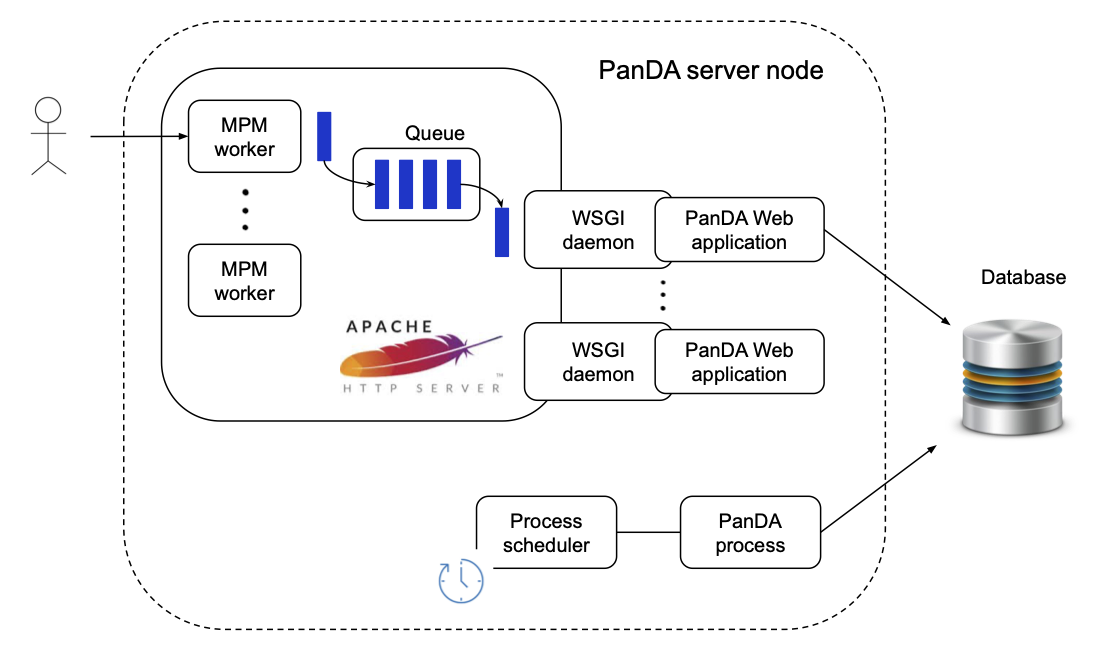
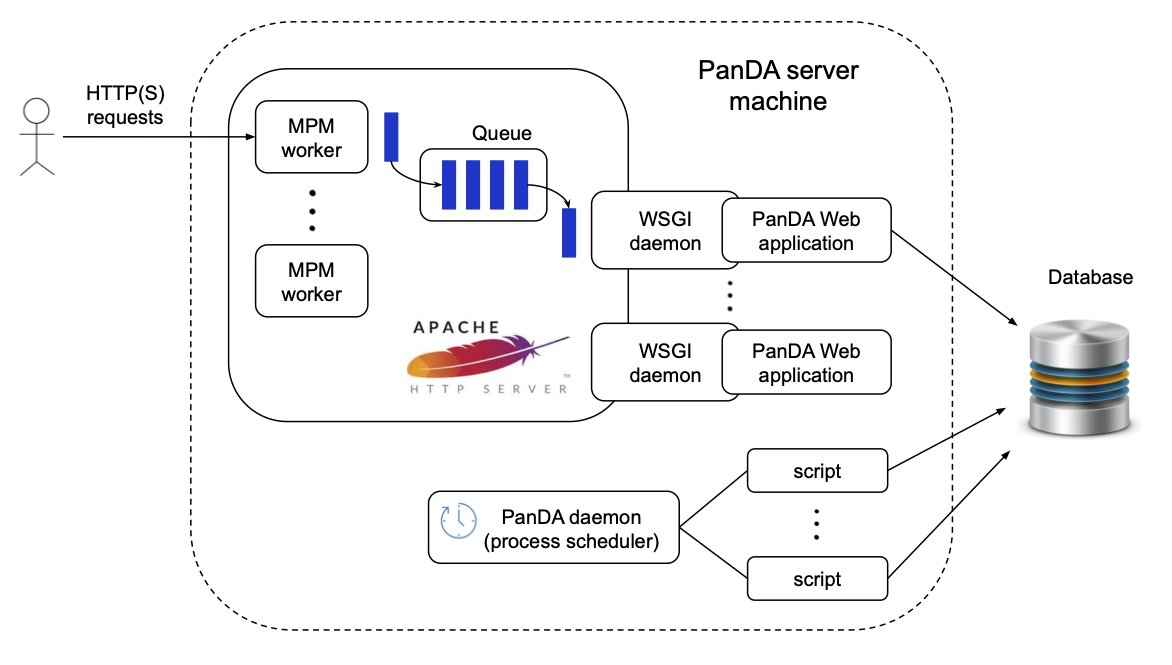
server

diff --git a/docs/source/architecture/server.rst b/docs/source/architecture/server.rst
@@ -34,10 +34,23 @@ the request is `A` sec, the following formula must be satisfied:
 
 Otherwise, the HTTP server will get choked and requests will be terminated due to timeout errors.
 
-The time-based process scheduler is a daemon to periodically launch various processes.
-Its functionalities are very similar to the standard cron daemon, but it allows those processes
-to share database connections and provides an exclusive control mechanism to avoid concurrently
-launching the same process among multiple machines.
+The time-based process scheduler, so called ``PanDA daemon``, is a daemon to periodically launch various scripts.
+Its functionalities are very similar to the standard cron daemon, but it has the following advantages:
+
+* No need to maintain extra crontab config file.
+
+* On each machine the same script runs sequentially, i.e. only one process for each script,
+  which is especially helpful when the script may run longer than the period configured.
+  No new process will spawn until the existing one finishes, while the cron daemon blindly launches processes
+  do that one has to fine-tune the frequency or let the script itself kill old processes to avoid duplicated execution.
+
+* There is an exclusive control mechanism to prevent multiple machines from running the same script in parallel,
+  i.e., if this is enabled for a script only one machine can run the script at a time, which is
+  useful for long-running scripts that can run on any machine.
+
+* Better system resource usages, e.g., limited total processes ``n_proc`` to run scripts,
+  reduction of the overhead to launch processes, and sharing of database connections among
+  scripts to avoid making a new database connection in every run.
 
 ------------
 
@@ -49,7 +62,7 @@ PanDA Web application
 .. figure:: images/server_sync.png
 
 The picture above shows the internal architecture of the PanDA Web application to process
-synchronous requests. The ``panda`` module is the entry point of the application running in the
+synchronous requests. The ``panda`` module is the entry point of the PanDA Web application running in the
 main process and implementing
 the WSGI protocol to receive requests through the WSGI daemon.
 Requests are fed into one of three modules, ``JobDispatcher``, ``UserIF``, and ``Utils``.
@@ -60,8 +73,68 @@ provides utility APIs which don't involve the database access, such as API for f
 ``TaskBuffer`` and ``OraDBProxy`` modules provide high-level and low-level APIs for the database access,
 respectively, and they are executed in separate processes and communicate through the ``ConBridge``
 module. The ``ConBridge`` module allows the child process, which runs the ``OraDBProxy`` module, to get
-killed due to timeout, in order to avoid deadlock of the main process.
+killed due to timeout, in order to avoid deadlock of the main process. One ``ConBridge`` object talks to
+one ``OraDBProxy`` object.
 The ``OraDBProxyPool`` is a pool of ``ConBridge`` objects where the ``TaskBuffer`` module picks up one
 ``ConBridge`` object to call ``OraDBProxy`` APIs.
 The ``WrappedCursor`` module implements Python DB-API 2.0 interface to allow uniform access to various
-database backends.
+database backends, and establishes one connection to the database. If ``OraDBProxyPool`` is configured
+to have `C` ``ConBridge`` objects, the total number of database connections in all PanDA Web applications
+is statically
+
+.. math::
+
+ M \times W \times C
+
+When a group of jobs are submitted through ``UserIF`` the PanDA Web application spawns another type of child process
+with the ``Setupper`` module to prepare their input data, such as data registration, to trigger data distribution,
+and so on. Those preparation procedures are experiment-dependent, so that the ``Setupper`` has a plugin structure
+to load an experiment-specific plugin.
+
+------------------
+
+|br|
+
+PanDA daemon
+--------------------------------------------
+
+PanDA daemon launches the following scripts.
+The execution frequency can be configured for each script.
+
+add_main
+   A script to post-process jobs' output data after those jobs received the final heartbeat from the pilot.
+
+add_sub
+   A script to run high frequency procedures.
+
+configurator
+   A script to fetch information about compute, storage, and network resources from information sources.
+
+copyArchive
+   A script to take actions on jobs based on various timeout configurations.
+
+datasetManager
+   A script to take actions on input and output data of jobs.
+
+panda_activeusers_query
+   A script to cache user's credentials.
+
+tmpwatch
+   A script to clean-up temporary files.
+
+---------------
+
+|br|
+
+Other PanDA modules
+-----------------------
+
+There are also other modules which are mainly used to process asynchronous requests.
+The ``Adder`` module is the core for `add_main` to post-process jobs' output data,
+such as data registration, to trigger data aggregation, and so on.
+Those post-processing procedures are experiment-dependent, so that the ``Adder`` also
+has a plugin structure to load an experiment-specific plugin.
+The ``Watcher`` module checks whether jobs are getting heartbeats, and kills them due to lost-heartbeat errors
+if not.
+The ``Closer`` module works on collections of output data,
+and the ``Finisher`` module finalize jobs.

diff --git a/docs/source/terminology/terminology.rst b/docs/source/terminology/terminology.rst
@@ -41,13 +41,13 @@ There are 5 components in the PanDA system as shown in the schematic view above.
 
 * **PanDA server** is the central hub implemented as a stateless RESTful web service to allow asynchronous communication from users, Pilot, and Harvester over HTTPS.
 
-* **Pilot** is a transient agent to execute a tailored workload (= job) on a worker node, reporting periodically various metrics to PanDA server throughout its lifetime.
+* **Pilot** is a transient agent to execute a tailored workload (= a job : to be explained in a following section) on a worker node, reporting periodically various metrics to PanDA server throughout its lifetime.
 
-* **Harvester** provisions Pilot on resources using the relevant communication protocol for each resource provider, and communicates with PanDA server on behalf of Pilot if necessary.
+* **Harvester** provisions the Pilot on resources using the relevant communication protocol for each resource provider, and communicates with PanDA server on behalf of Pilot if necessary.
 
 * **PanDA monitor** is a web based monitoring and browsing that provides a common interface to PanDA for users and system administrators.
 
-JEDI and PanDA server share the central database
+JEDI and the PanDA server share the central database
 for workload management.
 PanDA monitor has only read access to the central database,
 while Harvester uses own database which is ether central or local

diff --git a/docs/source/developer/document.rst b/docs/source/developer/document.rst
@@ -17,7 +17,7 @@ First, you need to install sphinx packages
 
 and `pandoc <https://pandoc.org/installing.html>`_ .
 Then fork the `panda-docs <https://github.com/PanDAWMS/panda-docs.git>`_ repository following
-`HowTo <https://docs.github.com/en/free-pro-team@latest/github/getting-started-with-github/fork-a-repo>`_ .
+`GitHub HowTo <https://docs.github.com/en/free-pro-team@latest/github/getting-started-with-github/fork-a-repo>`_ .
 
 
 2. Repository structure

diff --git a/docs/source/architecture/iam.rst b/docs/source/architecture/iam.rst
@@ -38,10 +38,6 @@ There is an multipurpose IAM instance at `DOMA PanDA IAM <https://panda-iam-doma
 which can define any VO or group to play with PanDA.
 
 
-PanDA server configuration
----------------------------
-
-
 Client setup
 ---------------------
 :ref:`client/panda-client:panda-client` needs to set the following environment variables to enable
